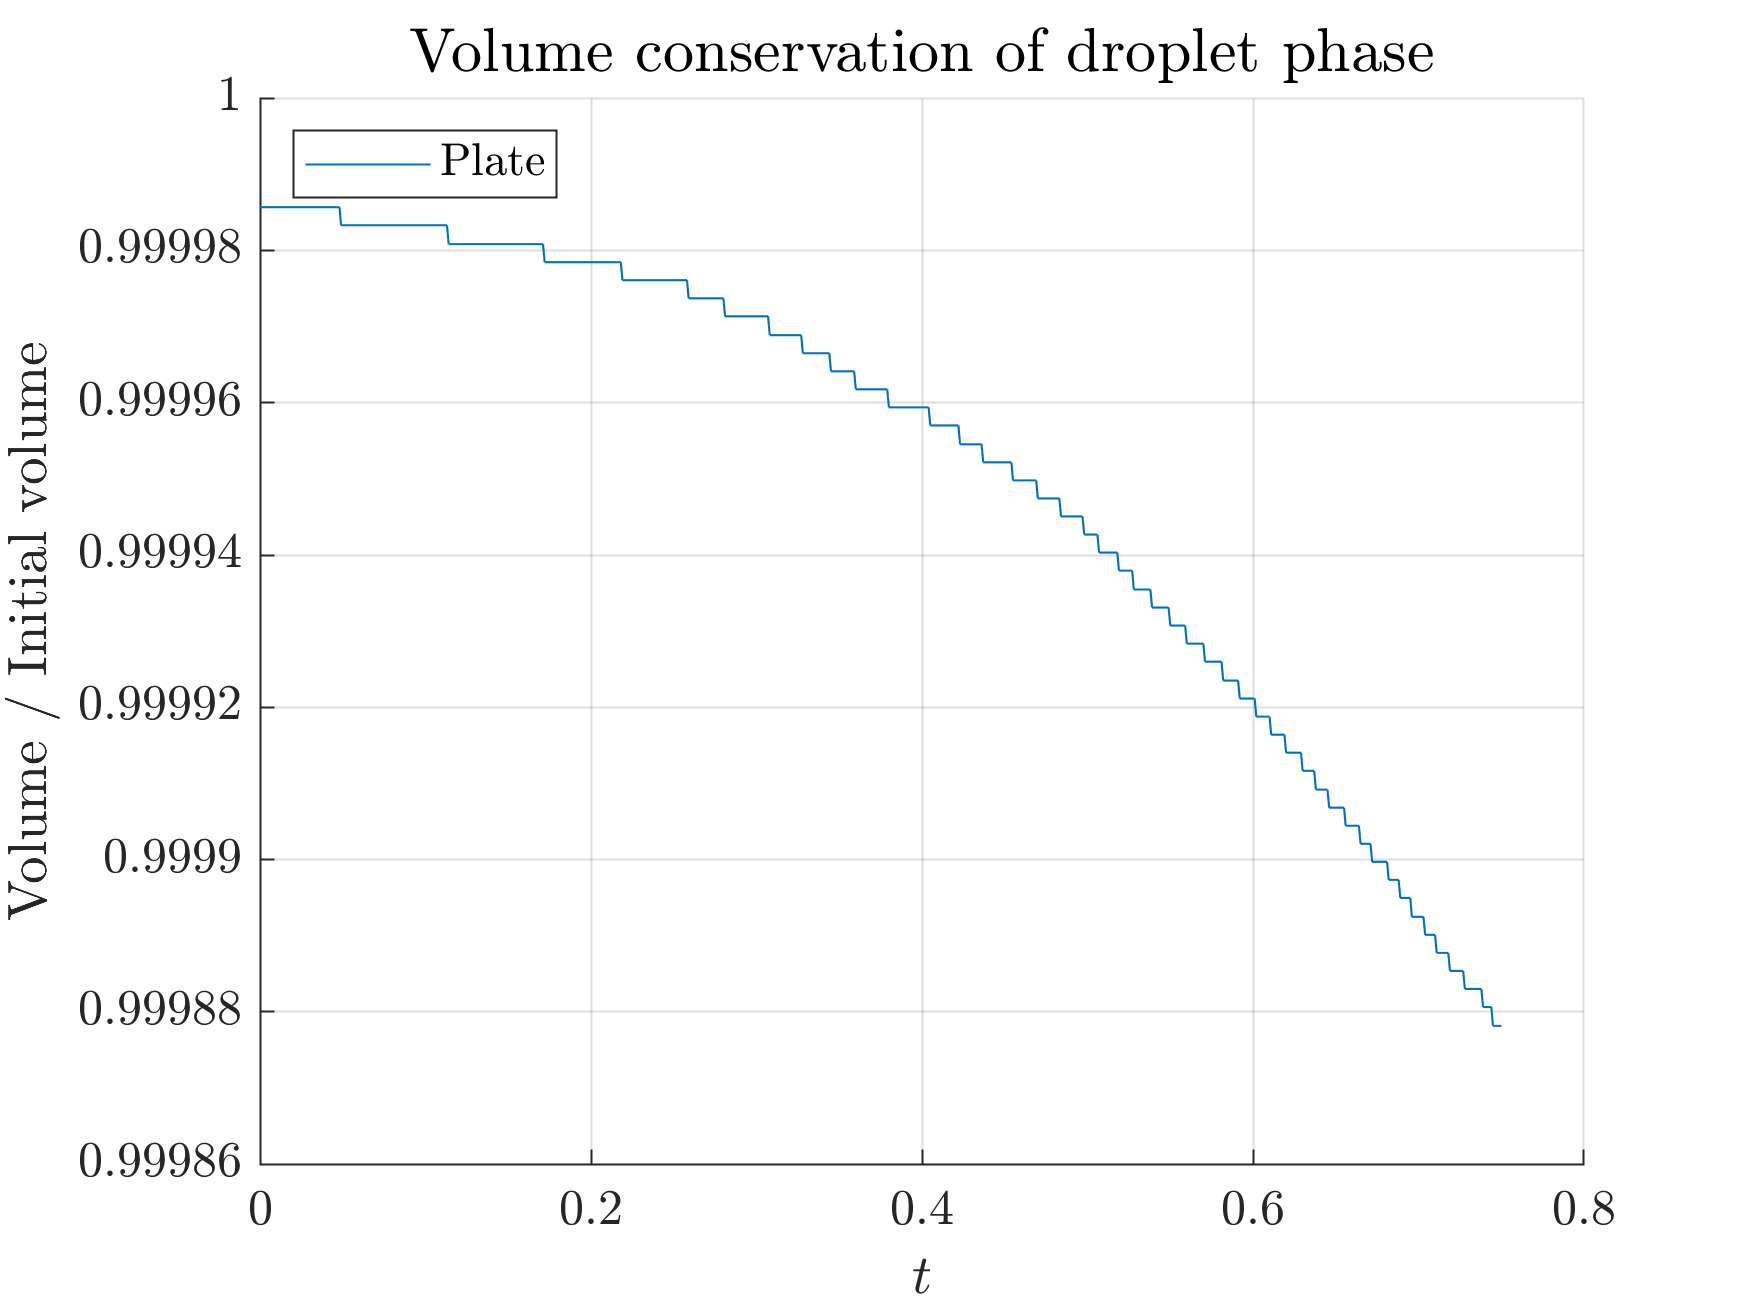
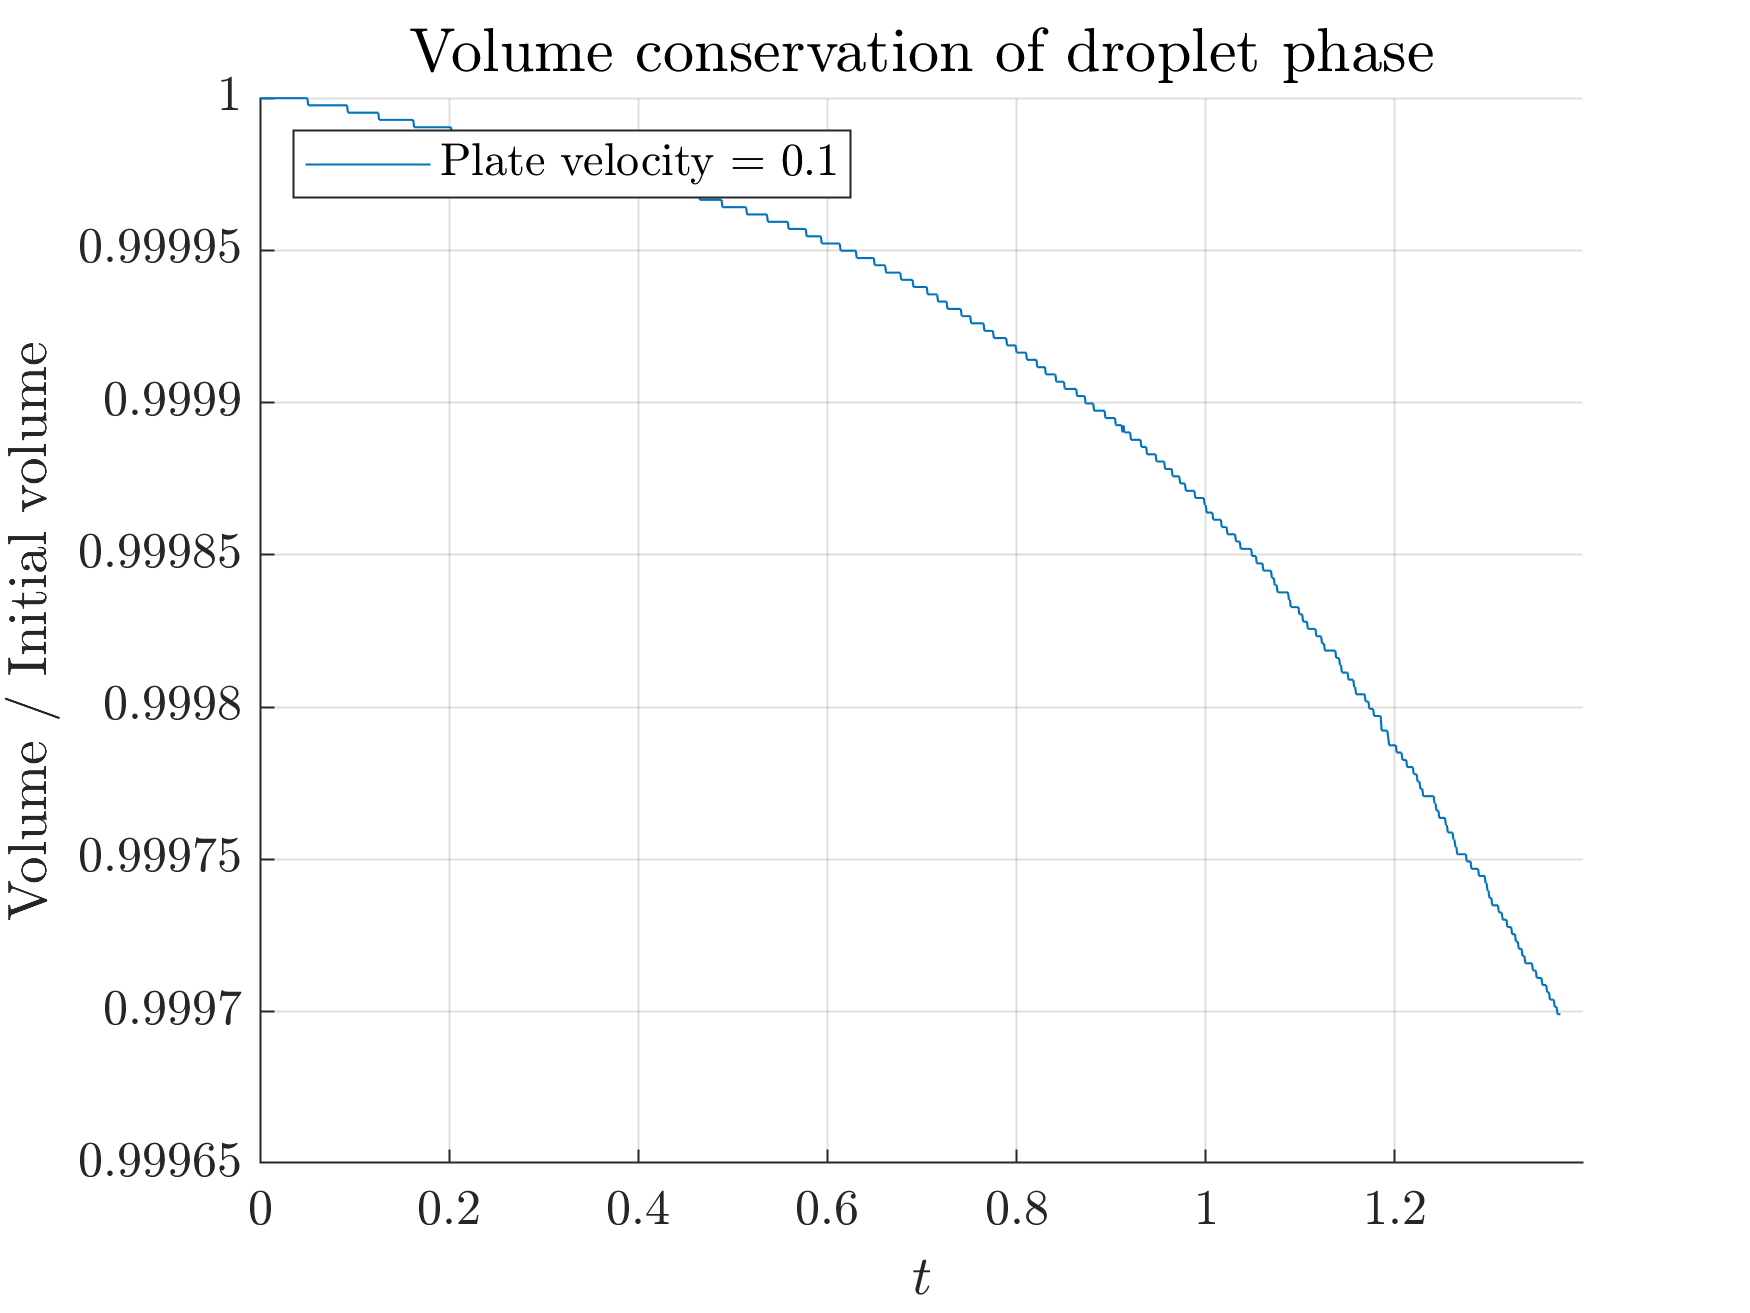
(Rushed) update for analysis and cleaning

diff --git a/uniform_plate/data_analysis/data_analysis.m b/uniform_plate/data_analysis/data_analysis.m
@@ -15,48 +15,44 @@ addpath("~/repos/plate-impact/data_analysis/interface_analysis");
 master_directory = '/scratch/Uniform_plate/cleaned_data/';
 
 % Names of the individual directories where the data is stored
-data_directories = ["uniform_plate"];
-
-% Edits so the full directory address is given in data_directories
-for k = 1:length(data_directories)
-    data_directories(k) = strcat(master_directory, data_directories(k));
-end
+plate_velocity= 0.1;
+data_directory = sprintf("/scratch/Uniform_plate/cleaned_data/plate_vel_%.1f", plate_velocity)
 
 % Readable names to label the plots for each of the data directories
-legend_entries = ["Plate"];
+legend_entry = sprintf("Plate velocity = %.1f", plate_velocity);
 
 %% Volume conservation
 % Plots the volume of the droplet volume fraction as a function of time for
 % all of the simulation to check how well volume (or equivalently mass) is
 % conserved
-
-initial_vol = 4 * pi / 3; % Initial volume of the droplet
-
-% Sets up figure
-close(figure(1));
-figure(1);
-hold on;
-grid on;
-xlabel("$t$", "Interpreter", "latex", 'Fontsize', 15);
-ylabel("Volume / Initial volume", "Interpreter", "latex", 'Fontsize', 15);
-ax = gca;
-ax.FontSize = 12;
-set(gca,'TickLabelInterpreter','latex');
-title("Volume conservation of droplet phase", "Interpreter", "latex", ...
-    'Fontsize', 15);
-
-% Iterates through the data directories. The "volumes.txt" files contain
-% two columns, the first is time and the second is volume
-for k = 1:length(data_directories)
-    data_matrix = dlmread(strcat(data_directories(k), '/volumes.txt'));
-    plot(data_matrix(:, 1), data_matrix(:, 2) / initial_vol);
-end
-% Sets up the legend
-L = legend(legend_entries);
-set(L, 'Interpreter', 'latex');
-set(L, 'FontSize', 11);
-set(L, 'Location', 'northwest');
-print(gcf,'Figures/volume.png','-dpng','-r300');
+% 
+% initial_vol = 4 * pi / 3; % Initial volume of the droplet
+% 
+% % Sets up figure
+% close(figure(1));
+% figure(1);
+% hold on;
+% grid on;
+% xlabel("$t$", "Interpreter", "latex", 'Fontsize', 15);
+% ylabel("Volume / Initial volume", "Interpreter", "latex", 'Fontsize', 15);
+% ax = gca;
+% ax.FontSize = 12;
+% set(gca,'TickLabelInterpreter','latex');
+% title("Volume conservation of droplet phase", "Interpreter", "latex", ...
+%     'Fontsize', 15);
+% 
+% % Iterates through the data directories. The "volumes.txt" files contain
+% % two columns, the first is time and the second is volume
+% for k = 1:length(data_directories)
+%     data_matrix = dlmread(strcat(data_directories(k), '/volumes.txt'));
+%     plot(data_matrix(:, 1), data_matrix(:, 2) / initial_vol);
+% end
+% % Sets up the legend
+% L = legend(legend_entries);
+% set(L, 'Interpreter', 'latex');
+% set(L, 'FontSize', 11);
+% set(L, 'Location', 'northwest');
+% print(gcf,'Figures/volume.png','-dpng','-r300');
 
 %% Pressure along plate
 % Creates an animation of the pressure along the plate in time. We can vary
@@ -69,66 +65,59 @@ print(gcf,'Figures/volume.png','-dpng','-r300');
 % Turnover point
 d = @(t) sqrt(3 * t);
 
-% Wagner pressure
-wagner_p = @(t, r) 3 ./ (pi * sqrt(3 * t - r.^2));
-
 % Impact time
-impact_time = 0.203;
-
-h = 0; % Number of cells above plate
-
-% Sets up figure
-close(figure(2));
-figure(2);
-hold on;
-grid on;
-xlabel("$r$", "Interpreter", "latex", 'Fontsize',30);
-ylabel("Pressure, $p$", "Interpreter", "latex", 'Fontsize', 30);
-ax = gca;
-ax.FontSize = 16;
-set(gca,'TickLabelInterpreter','latex');
-x_limits = [0, 1];
-xlim(x_limits);
-ylim([0 15]);
-
-% Reads the "times.txt" file from the first data directory. In theory this
-% should be identical in all the cases
-times = dlmread(strcat(data_directories(1), '/plate_outputs/times.txt'));
-
-% Create animated lines and place them in a matrix
-line1 = animatedline('Color', [0    0.4470    0.7410]);
-line2 = animatedline('Color', [0.8500    0.3250    0.0980]);
-line3 = animatedline('Color', [0.9290    0.6940    0.1250]);
-line4 = animatedline('Color', [0.4940    0.1840    0.5560]);
-animlines = [line1, line2, line3, line4];
-
-wagner_line = animatedline('Color', [0.4660    0.6740    0.1880]);
+impact_time = (2.125 - 1 - 1) / (1 - plate_velocity)
 
 
- % Sets up the legend
-dir_arr = [1];
-L = legend([legend_entries(dir_arr), 'Wagner']);
-set(L, 'Interpreter', 'latex');
-set(L, 'FontSize', 15);
+for h = [0, 1, 2]
+    % Sets up figure
+    close(figure(2));
+    figure(2);
+    hold on;
+    grid on;
+    xlabel("$r$", "Interpreter", "latex", 'Fontsize',30);
+    ylabel("Pressure, $p$", "Interpreter", "latex", 'Fontsize', 30);
+    ax = gca;
+    ax.FontSize = 16;
+    set(gca,'TickLabelInterpreter','latex');
+    x_limits = [0, 1];
+    xlim(x_limits);
+    ylim([0 15]);
 
-width=800;
-height=800;
-set(gcf,'position',[10,10,width,height])
-% create the video writer with 1 fps
-writerObj = VideoWriter(sprintf('Videos/pressure_%d.avi', h));
-writerObj.FrameRate = 5;
-open(writerObj);
-% Iterates over all times
-for m = 205:750
-    % Choses which data directories to show
-    
-    t = 0.001 * m; % Time
-    
-    for k = dir_arr
+    % Reads the "times.txt" file from the first data directory. In theory this
+    % should be identical in all the cases
+    times = dlmread(strcat(data_directory, '/plate_outputs/times.txt'));
+
+    % Create animated lines and place them in a matrix
+    animline = animatedline('Color', [0    0.4470    0.7410]);
+
+    wagner_line = animatedline('Color', [0.8500    0.3250    0.0980]);
+
+
+     % Sets up the legend
+    L = legend([legend_entry, 'Wagner']);
+    set(L, 'Interpreter', 'latex');
+    set(L, 'FontSize', 15);
+
+    width=800;
+    height=800;
+    set(gcf,'position',[10,10,width,height])
+    % create the video writer with 1 fps
+    writerObj = VideoWriter(sprintf('Videos/pressure_h_%d_vel_%.1f.avi', h, plate_velocity));
+    writerObj.FrameRate = 5;
+    open(writerObj);
+
+    % Iterates over all times
+    start_pos = floor(0.9 * impact_time * 1000);
+    for m = start_pos: start_pos + 100
+        % Choses which data directories to show
+
+        t = 0.001 * m; % Time
+
         % Loads in data from the text file
-        output_matrix = dlmread(strcat(data_directories(k), ...
+        output_matrix = dlmread(strcat(data_directory, ...
             '/plate_outputs/output_', num2str(m), '.txt'));
-    
+
         % Isolates data with matching value of h
         h_column = output_matrix(:, 2); 
         refined_mat = output_matrix(h_column == h, :);
@@ -138,29 +127,36 @@ for m = 205:750
         sorted_mat = refined_mat(sorted_idxs, :);
 
         % Creates the animated line
-        clearpoints(animlines(k))
-        addpoints(animlines(k), sorted_mat(:, 1), sorted_mat(:, 3));
+        clearpoints(animline)
+        addpoints(animline, sorted_mat(:, 1), sorted_mat(:, 3));
+
+        % Wagner line
+        clearpoints(wagner_line);
+        if t > impact_time
+            sigmas =  10.^linspace(-10, 5, 1e4);
+            [wagner_rs, wagner_ps] = wagner_pressure(sigmas, t - impact_time, plate_velocity, 1);
+            addpoints(wagner_line, wagner_rs, wagner_ps);
+        end
+
+
+        ylim([0 , 20]);
+        xlim([0, max([1, 1.5 * d(t - impact_time)])]);
+
+        title(sprintf("Pressure: $h$ = %d, $t$ = %g, Plate vel = %g\n", h, times(m, 2), plate_velocity), ...
+            "Interpreter", "latex", 'Fontsize', 15);
+        drawnow;
+        frame = getframe(gcf);
+        writeVideo(writerObj, frame);
     end
-   
-    % Wagner line
-    clearpoints(wagner_line);
-    if t > impact_time
-        wagner_rs = linspace(x_limits(1), 0.99 * d(t - impact_time), 1e3);
-        wagner_vals = wagner_p(t - impact_time, wagner_rs);
-        addpoints(wagner_line, wagner_rs, wagner_p(t - impact_time, ...
-            wagner_rs));
-    end
-    ylim([0 ,max([max(wagner_vals), 10])]);
-    xlim([0, max([1, 1.5 * d(t - impact_time)])]);
+
+    close(writerObj);
     
-    title(sprintf("Pressure: $h$ = %d, $t$ = %g", h, times(m, 2)), ...
-        "Interpreter", "latex", 'Fontsize', 15);
-    drawnow;
-    frame = getframe(gcf);
-    writeVideo(writerObj, frame);
 end
 
-close(writerObj);
+
+
+
+
 
 %%
 %

diff --git a/uniform_plate/data_analysis/wagner_pressure.m b/uniform_plate/data_analysis/wagner_pressure.m
@@ -1,0 +1,39 @@
+function [rs, ps] = wagner_pressure(sigmas, t, plate_vel, eps)
+
+% Cantilever displacement
+s = @(t) plate_vel * t; 
+sdot = @(t) plate_vel;
+sddot = @(t) 0;
+
+% Turnover point
+d = @(t) sqrt(3 * (t - s(t)));
+ddot = @(t) (sqrt(3)/2) * (1 - sdot(t)) ./ sqrt(t - s(t));
+dddot = @(t) - (sqrt(3)/4) * ((1 - sdot(t)).^2 + 2 * (t - s(t)) .* sddot(t))...
+    ./ (t - s(t)).^(3/2);
+
+% Jet thickness
+J = @(t) 2 * (t - s(t)).^(3/2) / (sqrt(3) * pi);
+
+%% Outer solution
+outer_p = @(rhat, t) (1/eps) ...
+    * (4 * (2 * d(t)^2 - rhat.^2) * ddot(t)^2 ./ (3 * pi * sqrt(d(t)^2 - rhat.^2)) ...
+    + 4 * d(t) * dddot(t) * sqrt(d(t)^2 - rhat.^2) / (3 * pi));
+
+%% Inner solution
+tilde_r = @(sigma, t) - (J(t)/pi) * (sigma + 4 * sqrt(sigma) + log(sigma) + 1);
+inner_r = @(sigma, t) eps * d(t) + eps^3 * tilde_r(sigma, t);
+inner_p = @(sigma, t) (1 / eps^2) * 2 * ddot(t)^2 * sqrt(sigma) ./ (1 + sqrt(sigma)).^2;
+
+%% Overlap solution
+overlap = @(r, t) 2 * sqrt(2) * d(t)^(3/2) * ddot(t)^2 ...
+    ./ (3 * pi * eps^2 * sqrt(d(t) / eps^2 - r / eps^3));
+
+%% Composite solution
+rs = inner_r(sigmas, t);
+ps = real(inner_p(sigmas, t) + outer_p(rs/eps, t) - overlap(rs, t));
+
+
+
+    
+
+end
